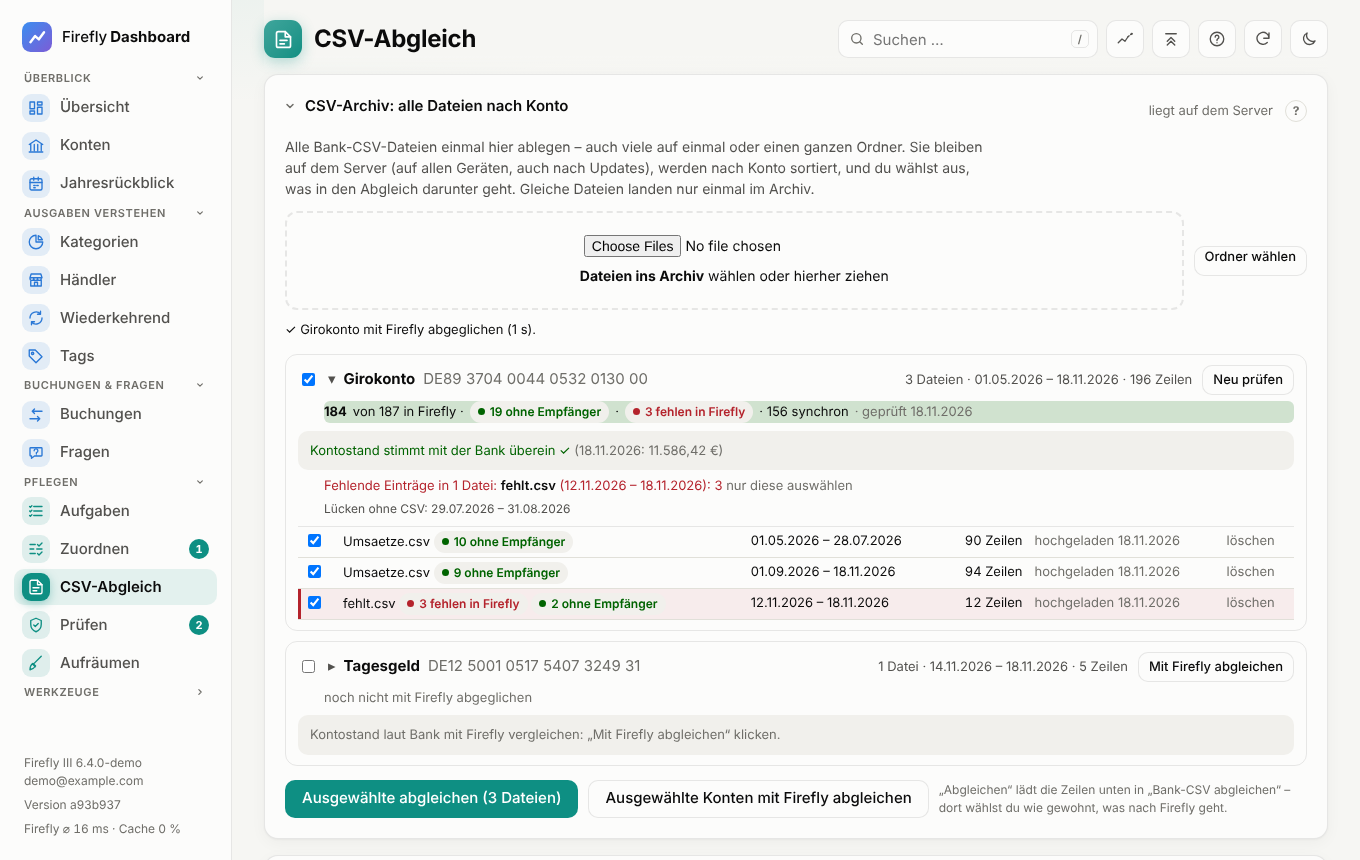
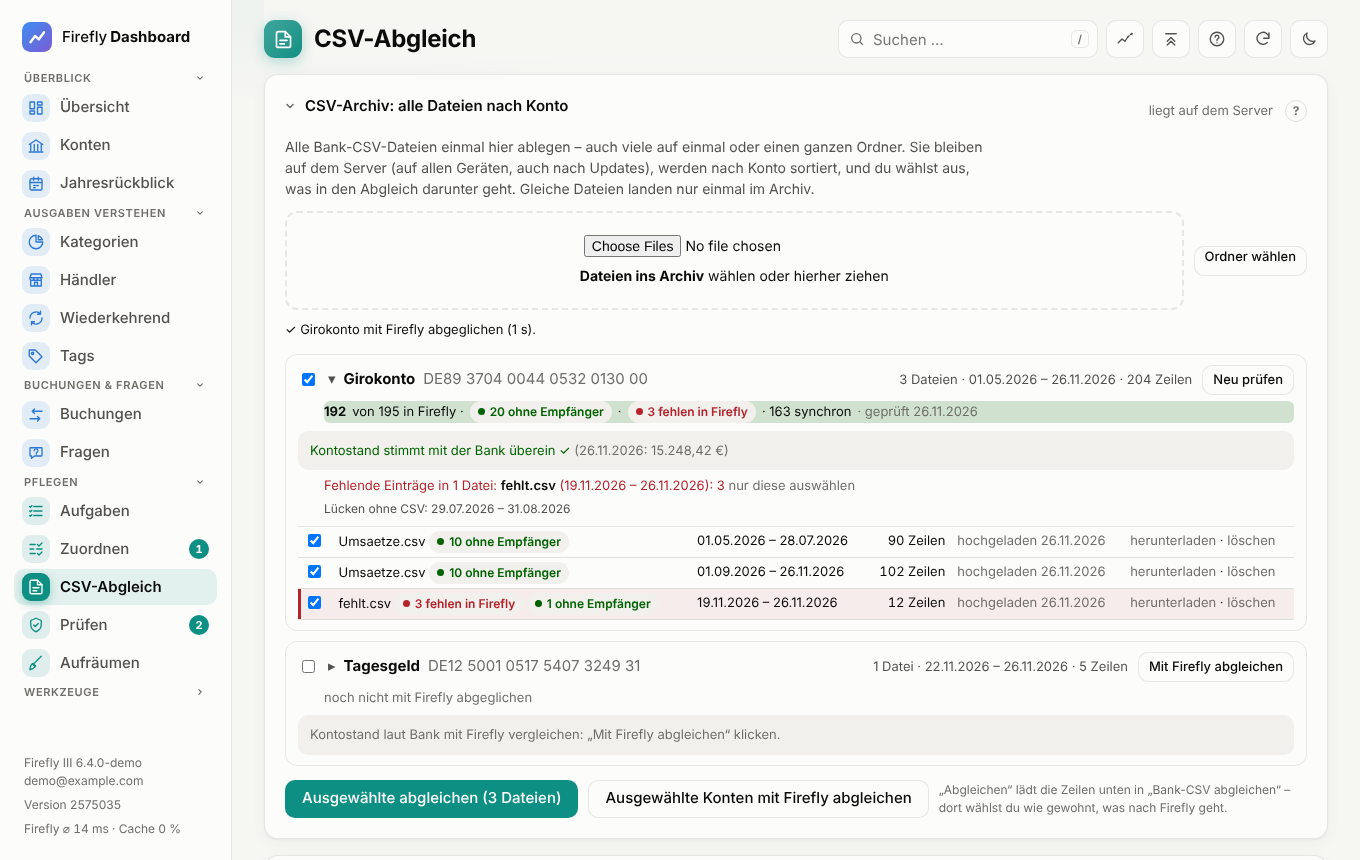
CSV-Archiv: Dateien wieder herunterladen; Dateiliste am Handy lesbar
- „herunterladen“ je Datei liefert die Original-CSV mit ihrem Namen
  (GET /local/csvarchive/file/<id>?download=1)
- Dateiliste am Handy: Zeilen umbrechen statt rechts abgeschnitten
  (auch „löschen“ war dort nicht erreichbar)

Claude-Session: https://claude.ai/code/session_017CCe4q4F121UhA8tHqTQzy

diff --git a/lib/csvarchive.js b/lib/csvarchive.js
@@ -5,7 +5,7 @@
 //
 //   GET    /local/csvarchive                 { files: [{ id, name, size, at, info }], status: { konto: {…} } }
 //   POST   /local/csvarchive?name=…          Rohdaten der Datei → { file, duplicate }
-//   GET    /local/csvarchive/file/<id>       Rohdaten
+//   GET    /local/csvarchive/file/<id>       Rohdaten (?download=1: als Datei mit dem ursprünglichen Namen)
 //   DELETE /local/csvarchive/file/<id>       Datei löschen
 //   POST   /local/csvarchive/info            { infos: { id: { own, from, to, rows } } }
 //   POST   /local/csvarchive/status          { status: { konto: { …zahlen, at } } }
@@ -144,6 +144,14 @@ export function createCsvArchive(dataDir, { log = console.log } = {}) {
         }
         if (!data.files[m[1]] || !fs.existsSync(file)) return json(404, { message: 'Datei nicht im Archiv.' });
         const gz = fs.readFileSync(file);
+        if (url.searchParams.get('download') === '1') {
+          // Herunterladen: Originaldatei mit ihrem Namen (z. B. versehentlich im Bank-Ordner gelöscht)
+          const name = String(data.files[m[1]].name || 'umsaetze.csv');
+          const ascii = name.replace(/ä/g, 'ae').replace(/ö/g, 'oe').replace(/ü/g, 'ue').replace(/Ä/g, 'Ae').replace(/Ö/g, 'Oe').replace(/Ü/g, 'Ue').replace(/ß/g, 'ss').replace(/[^\w.-]+/g, '_');
+          res.writeHead(200, { 'Content-Type': 'text/csv', 'Cache-Control': 'no-store',
+            'Content-Disposition': `attachment; filename="${ascii}"; filename*=UTF-8''${encodeURIComponent(name)}` });
+          return res.end(zlib.gunzipSync(gz));
+        }
         const accepts = /\bgzip\b/.test(req.headers['accept-encoding'] || '');
         res.writeHead(200, {
           'Content-Type': 'application/octet-stream', 'Cache-Control': 'private, max-age=31536000, immutable', // Inhalt ändert sich nie (ID = Hash)

diff --git a/public/js/csvarchive.js b/public/js/csvarchive.js
@@ -325,7 +325,7 @@ export function csvArchive(el, { load, memory, editAction = () => null }) {
             <td>${f.info?.from ? `${fmtDate(f.info.from)} – ${fmtDate(f.info.to)}` : '–'}</td>
             <td class="num">${f.info?.rows ?? '–'} Zeilen</td>
             <td class="muted">hochgeladen ${fmtDate(f.at)}</td>
-            <td><button class="link-btn" data-del="${f.id}" title="Aus dem Archiv löschen">löschen</button></td></tr>`).join('')}</tbody></table>` : ''}
+            <td class="arch-acts"><a class="link-btn" href="/local/csvarchive/file/${f.id}?download=1" download="${esc(f.name)}" title="Originaldatei herunterladen">herunterladen</a> · <button class="link-btn" data-del="${f.id}" title="Aus dem Archiv löschen">löschen</button></td></tr>`).join('')}</tbody></table>` : ''}
         </div>`;
       }).join('')}</div>
       <div class="arch-actions">

diff --git a/public/styles.css b/public/styles.css
@@ -1748,3 +1748,13 @@ details.cm-sugg:not([open]) { padding-bottom: 10px; }
 }
 .cm-stand { margin-top: 2px; }
 .refs-row .subtitle, .cm-merged .subtitle { white-space: normal; overflow: visible; text-overflow: clip; }
+.arch-acts { white-space: nowrap; }
+.arch-acts a.link-btn { text-decoration: none; }
+@media (max-width: 600px) {
+  .arch-files, .arch-files tbody { display: block; width: 100%; }
+  .arch-files tr { display: flex; flex-wrap: wrap; align-items: baseline; gap: 2px 10px; padding: 8px 0; border-top: 1px solid var(--border); }
+  .arch-files td { border: 0; padding: 0; }
+  .arch-files td:nth-child(2) { flex: 1 1 calc(100% - 40px); min-width: 0; overflow-wrap: anywhere; }
+  .arch-files td:nth-child(3) { margin-left: 30px; }
+  .arch-files td.arch-acts { flex-basis: 100%; margin-left: 30px; }
+}

diff --git a/public/sw.js b/public/sw.js
@@ -1,7 +1,7 @@
 // Service Worker: App sofort starten (auch offline) und zuletzt geladene
 // Daten zeigen, wenn der Server nicht erreichbar ist.
 
-const VERSION = 'ffd-121';
+const VERSION = 'ffd-123';
 const SHELL = `${VERSION}-shell`;
 const DATA = `${VERSION}-data`;
 const MAX_DATA_ENTRIES = 400;
